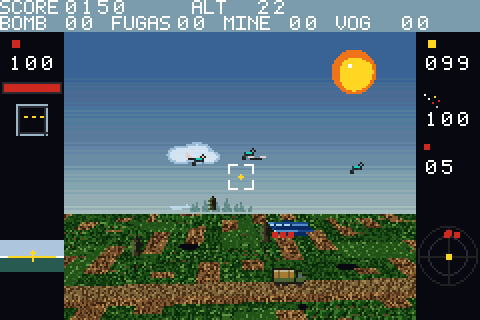
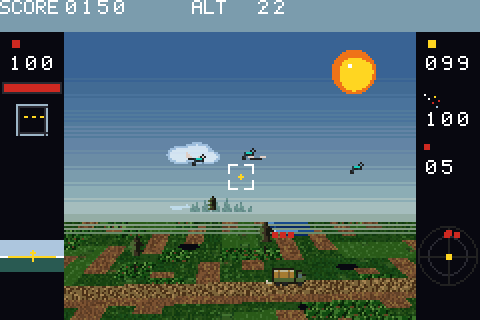
docs: redraw the cover and the guide's pictures
The studio card, the quieter top line and the fog are in every picture, and
the guide no longer describes the charge row.

diff --git a/docs/GUIDE.md b/docs/GUIDE.md
@@ -29,8 +29,7 @@ Every sortie opens on a card: the number and name, the aircraft and the glass, t
 ![Day flight to the gate](screens/gate.png)
 
 - **Top line**: score and height. Height matters: charges scatter more the higher they are released, and low passes wake up guns and rifles.
-- **Second line**: what is left of each charge, bombs, `FUGAS` (high explosive), mines and `VOG` grenades.
-- **Left column**: hull strength and its bar, the charge in hand and how many of it remain. Under 40 the glass cracks.
+- **Left column**: hull strength and its bar, the charge in hand and how many of it remain; A cycles through the others to see theirs. Under 40 the glass cracks.
 - **Right column**: battery, signal, and the number of marked targets still standing. The yellow dot is the target counter.
 - **Bottom left**: the attitude indicator.
 - **Bottom right**: the radar. It turns with the aircraft, so ahead is up; targets are dots, and a yellow mark is the base or the posts the card talks about.
